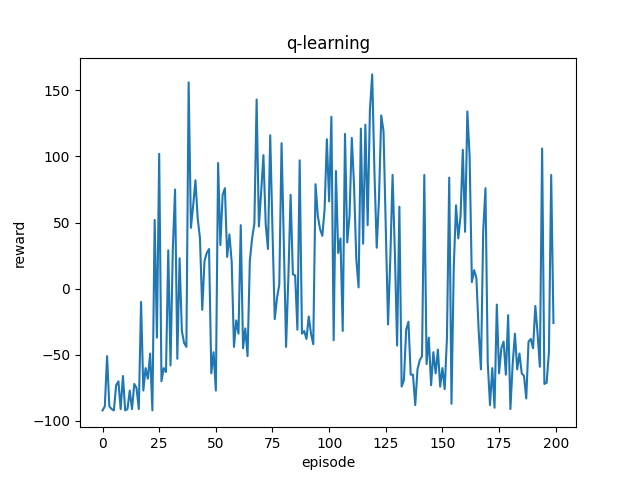
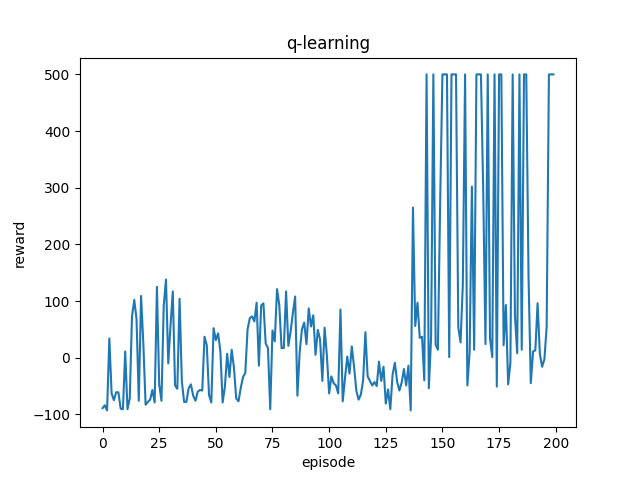
Update

diff --git a/rein_forcement.py b/rein_forcement.py
@@ -6,14 +6,12 @@ import matplotlib.pyplot as plt
 from tqdm import tqdm
 
 class reinforcement_learning:
-    def __init__(self, task_name):
-        self.env = gym.make(task_name, render_mode="rgb_array")
-        self.q_table = np.random.uniform(0,1,(255,self.env.action_space.n))
+    def __init__(self):
         self.epsilon = 0.5
         self.alpha = 0.1
         self.gamma = 0.99
         self.max_episodes = 200
-        self.max_steps = self.env.spec.max_episode_steps
+        # self.max_steps = env.spec.max_episode_steps
         self.successed_episode = 0
     
     def save_gif(self, rgb_arrays, filename, duration=60):
@@ -28,11 +26,11 @@ class reinforcement_learning:
     def bins(self, clip_min, clip_max, num):
         return np.linspace(clip_min, clip_max, num + 1)[1:-1]
 
-    def digitize_state(self, observations):
+    def digitize_state(self, observations, env):
         # 各値を4個の離散値に変換
         # cart_pos, cart_v, pole_angle, pole_v = observation
-        env_lows = self.env.observation_space.low
-        env_highs = self.env.observation_space.high
+        env_lows = env.observation_space.low
+        env_highs = env.observation_space.high
 
         digitized = []
         for i, observation in enumerate(observations):
@@ -46,57 +44,61 @@ class reinforcement_learning:
         # 0~255に変換
         return sum([x * (4 ** i) for i, x in enumerate(digitized)])
     
-    def decide_action(self, step, state):
-        if np.random.uniform(0,1) > (self.epsilon / (step+1)):
-            action = np.argmax(self.q_table[state])
+    def decide_action(self, episode, state, q_table, env):
+        if np.random.uniform(0,1) > (self.epsilon / (episode+1)):
+            action = np.argmax(q_table[state])
         else:
-            action = self.env.action_space.sample()
+            action = env.action_space.sample()
 
         return action
     
-    def q_learning(self, state, action, next_state, r):
-        self.q_table[state, action] = self.q_table[state, action] + self.alpha * (r + self.gamma * np.max(self.q_table[next_state]) - self.q_table[state, action])
+    def q_learning(self, q_table, state, action, next_state, r):
+        q_table[state, action] = q_table[state, action] + self.alpha * (r + self.gamma * np.max(q_table[next_state]) - q_table[state, action])
     
-    def sarsa(self, state, action, next_state, next_action, r):
+    def sarsa(self, q_table, state, action, next_state, next_action, r):
         gamma = 0.99
         alpha = 0.1
-        self.q_table[state, action] = self.q_table[state, action] + alpha * (r + gamma * self.q_table[next_state, next_action] - self.q_table[state, action])
+        q_table[state, action] = q_table[state, action] + alpha * (r + gamma * q_table[next_state, next_action] - q_table[state, action])
     
-    def plot(self, rewards, algorithm, ax):
+    def plot(self, rewards, algorithm):
         
-        ax.plot(np.arange(self.max_episodes), rewards)
-        ax.xlabel("episode")
-        ax.ylabel("reward")
-        ax.title(algorithm)
-        ax.savefig("./" + algorithm + "/" + algorithm + ".png")
+        plt.plot(np.arange(self.max_episodes), rewards)
+        plt.xlabel("episode")
+        plt.ylabel("reward")
+        plt.title(algorithm)
+        plt.savefig("./" + algorithm + "/" + algorithm + ".png")
+        plt.show()
     
     def render(self, imgs, episode_filename):
         for i in tqdm(range(len(imgs))):
             self.save_gif(imgs[:i+1], episode_filename)
             IImage(filename=episode_filename)
     
-    def run_Q_learing(self):
+    def run_Q_learing(self, task):
+        env = gym.make(task, render_mode="rgb_array")
+        q_table = np.random.uniform(0,1,(255,env.action_space.n))
+        max_steps = env.spec.max_episode_steps
         imgs = []
         rewards = []
         for episode in range(self.max_episodes):
-            observation = self.env.reset()
+            observation = env.reset()
             episode_filename = "./q-learning/q-learning" + str(episode + 1) + ".gif"
 
-            state = self.digitize_state(observation[0])
+            state = self.digitize_state(observation[0], env)
             
-            imgs = [self.env.render()]
+            imgs = [env.render()]
             
             episode_reward = 0
-            for step in range(self.max_steps):
+            for step in range(max_steps):
                 
                 # epsilon-greedy法により行動を決定
-                action = self.decide_action(step, state)
+                action = self.decide_action(episode, state, q_table, env)
                 # 次の状態を獲得
-                next_observation, reward, terminated, _, _ = self.env.step(action)
+                next_observation, reward, terminated, _, _ = env.step(action)
                 
                 # 報酬獲得
                 if terminated:
-                    if step < self.max_steps-5:
+                    if step != max_steps-1:
                         reward = -100
                     else:
                         successed_episodes += 1
@@ -106,48 +108,50 @@ class reinforcement_learning:
 
                 episode_reward += reward
                 # 状態を離散値に変換
-                next_state = self.digitize_state(next_observation)
+                next_state = self.digitize_state(next_observation, env)
 
                 # q_learning
-                self.q_learning(state, action, next_state, reward)
+                self.q_learning(q_table, state, action, next_state, reward)
                 state = next_state
                 
                 if episode == self.max_episodes-1:
-                    imgs.append(self.env.render())
+                    imgs.append(env.render())
 
-                if terminated or step == self.max_steps-1:
+                if terminated or step == max_steps-1:
                     rewards.append(episode_reward)
                     break
         
         self.plot(rewards, "q-learning")
         self.render(imgs, episode_filename)
-        self.env.close()
     
-    def run_SARSA(self):
+    def run_SARSA(self, task):
+        env = gym.make(task, render_mode="rgb_array")
+        q_table = np.random.uniform(0,1,(255,env.action_space.n))
+        max_steps = env.spec.max_episode_steps
         imgs = []
         rewards = []
         for episode in range(self.max_episodes):
-            observation = self.env.reset()
+            observation = env.reset()
 
             episode_filename = "./sarsa/sarsa" + str(episode + 1) + ".gif"
 
-            state = self.digitize_state(observation[0])
+            state = self.digitize_state(observation[0], env)
             
-            imgs = [self.env.render()]
+            imgs = [env.render()]
             
             episode_reward = 0
 
-            action = self.decide_action(1, state)
+            action = self.decide_action(episode, state, q_table, env)
 
-            for step in range(self.max_steps):
+            for step in range(max_steps):
 
                 # 次の状態を獲得
-                next_observation, reward, terminated, _, _ = self.env.step(action)
+                next_observation, reward, terminated, _, _ = env.step(action)
                 
                 # 報酬獲得
                 if terminated:
                     # print("terminated {} episode in {} step".format(episode+1, step+1))
-                    if step < self.max_steps-5:
+                    if step < max_steps-5:
                         reward = -100
                     else:
                         # print("{} episode successed".format(episode + 1))
@@ -158,30 +162,31 @@ class reinforcement_learning:
 
                 episode_reward += reward
                 # 状態を離散値に変換
-                next_state = self.digitize_state(next_observation)
+                next_state = self.digitize_state(next_observation, env)
 
                 # 次の行動を決定
-                next_action = self.decide_action(step, next_state)
+                next_action = self.decide_action(episode, next_state, q_table, env)
 
                 # sarsa
-                self.sarsa(state, action, next_state, next_action, reward)
+                self.sarsa(q_table, state, action, next_state, next_action, reward)
                 state = next_state
                 action = next_action
                 
                 if episode == self.max_episodes-1:
-                    imgs.append(self.env.render())
-                    # screen = self.env.render()
+                    imgs.append(env.render())
+                    # screen = env.render()
 
-                if terminated or step == self.max_steps-1:
+                if terminated or step == max_steps-1:
                     rewards.append(episode_reward)
                     # print("episode{} finished ofter {} timesteps, total reward {}".format(episode, step+1, total_reward))
                     break
         self.plot(rewards, "sarsa")
         self.render(imgs, episode_filename)
-        self.env.close()
 
 if __name__ == "__main__":
-    r_learning = reinforcement_learning("CartPole-v1")
+    task = "CartPole-v1"
+    r_learning = reinforcement_learning()
 
-    r_learning.run_Q_learing()
-    r_learning.run_SARSA()
+    r_learning.run_Q_learing(task)
+    r_learning.run_SARSA(task)
+

diff --git a/README.md b/README.md
@@ -12,12 +12,12 @@
     <!-- - Episode成功規定step数まで立っている場合 +1 -->
     - Episode成功規定step数より小さいstep数でPoleが倒れた場合 -100
 ### Episode成功条件
-- max_steps数-5よりも先のstepでPoleが立ち続けていた場合
+- (max_steps)stepでPoleが立っていた場合
 ### パラメータ
 | パラメータ名 | 値 |
 | ---- | ---- |
 | $\varepsilon$-greedy法の $\varepsilon$値 | 0.5 |
-| 最大エピソード数 max_episodes | 800 |
-| 最大ステップ数 max_steps | 500 |
+| 最大エピソード数 max_episodes | 200 |
+| 最大ステップ数 max_steps | env.spec.max_episode_steps |
 | 学習率 $\alpha$ | 0.5 |
 | 割引率 $\gamma$ | 0.99 |
